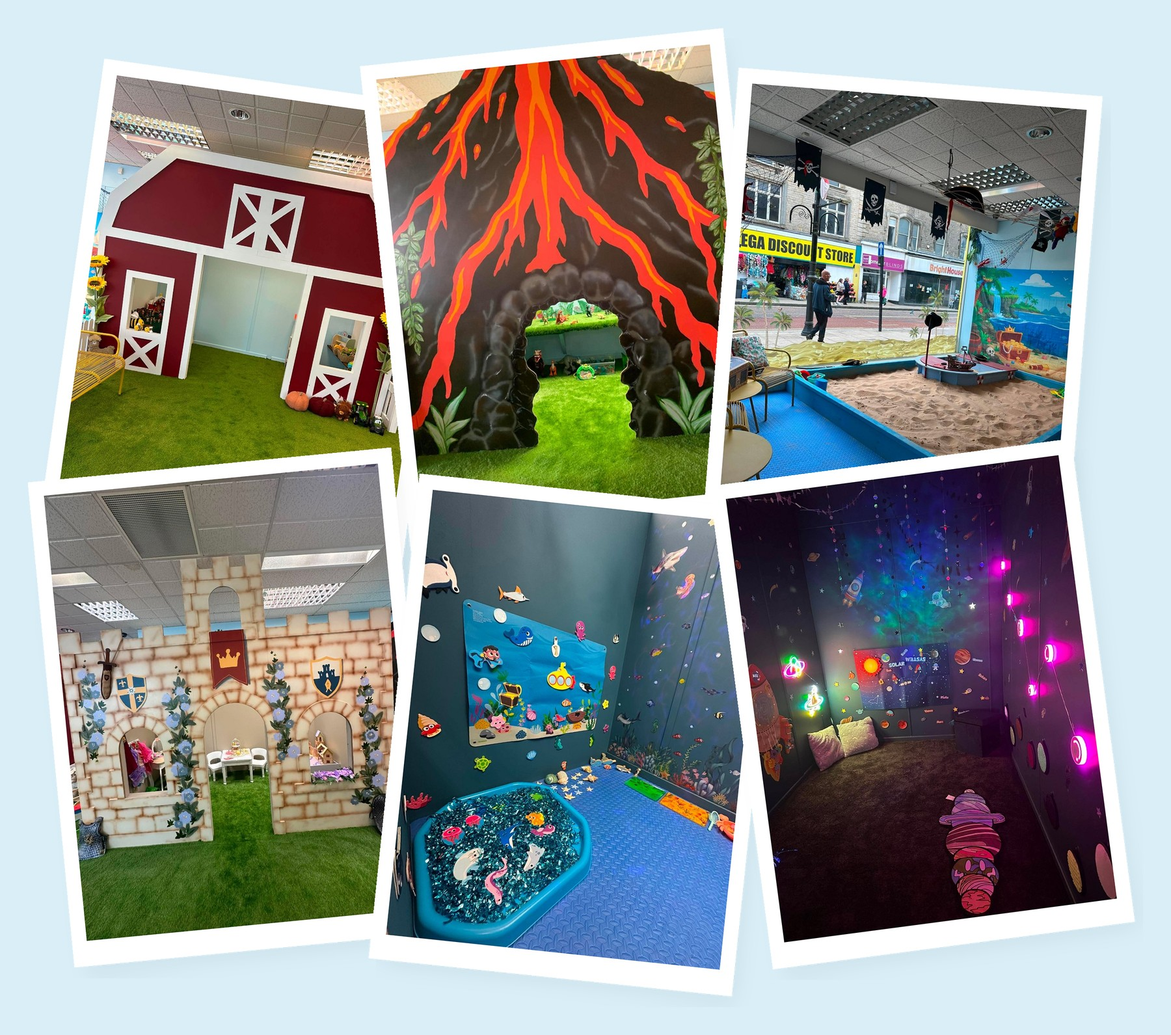
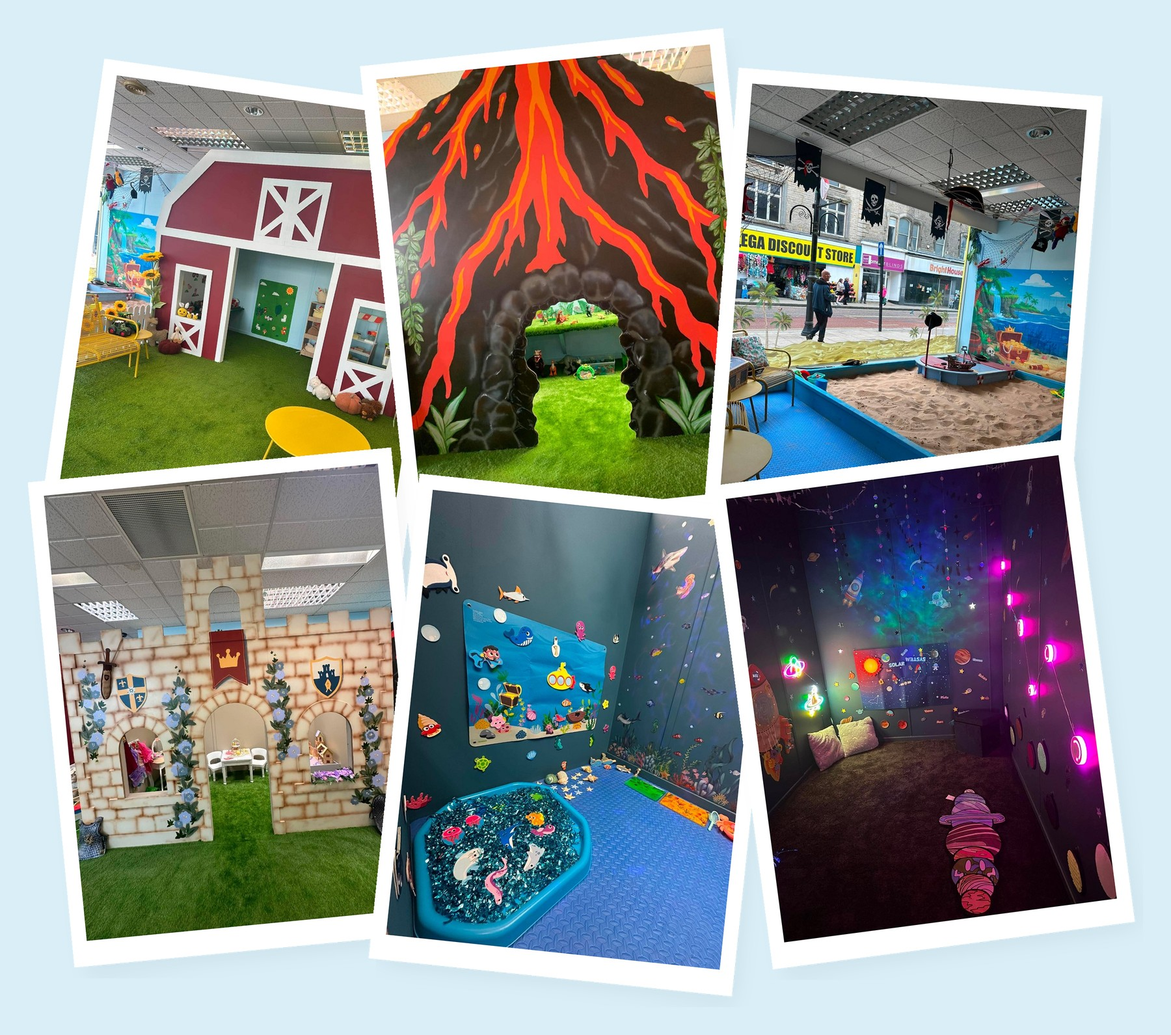
Publish weekday and weekend sitting times, plus the waiting copy and barn photo.

Changed region(s): [[0.0311, 0.0616, 0.3422, 0.462]]

diff --git a/src/config/site.ts b/src/config/site.ts
@@ -26,7 +26,9 @@ export const site = {
   name: "Little Adventure Town",
   legalName: "Little Adventure Town Ltd",
   companyNumber: "17122545",
-  tagline: "A handmade indoor adventure town for babies, toddlers and pre-schoolers, on Newgate Street.",
+  tagline: "A handmade indoor adventure town on Newgate Street, for children who love role play.",
+  audienceNote:
+    "We don't put an age limit on children, as they all develop differently. If your child still loves role play, please bring them along.",
   description:
     "Little Adventure Town is an indoor adventure play café on Newgate Street in Bishop Auckland. Handmade rooms, a café, and small booked sittings. Not your typical soft play frame.",
   url: siteUrl,
@@ -84,14 +86,21 @@ export const site = {
   hours: {
     /** Human-readable session days. Closed Monday unless this changes. */
     days: "Tuesday to Sunday",
+    weekdays: "Tuesday to Friday",
+    weekends: "Saturday and Sunday",
     closed: "Closed Monday",
     cafeHours: TO_CONFIRM,
-    note: "Play is booked, so grab a sitting before you come.",
+    note: "Booking a sitting is advisable. Walk-ins are welcome, but not guaranteed.",
     schema: [
       {
-        days: ["Tuesday", "Wednesday", "Thursday", "Friday", "Saturday", "Sunday"] as const,
-        opens: "09:30",
-        closes: "14:45",
+        days: ["Tuesday", "Wednesday", "Thursday", "Friday"] as const,
+        opens: "09:15",
+        closes: "14:30",
+      },
+      {
+        days: ["Saturday", "Sunday"] as const,
+        opens: "09:00",
+        closes: "16:30",
       },
     ],
   },
@@ -104,12 +113,19 @@ export const site = {
     durationMinutes: 90,
     durationLabel: "90 minutes",
     maxChildren: 20,
-    bookingEssential: true,
-    walkIn: false,
-    sessions: [
-      { start: "09:30", end: "11:00", label: "09:30 to 11:00" },
-      { start: "11:30", end: "13:00", label: "11:30 to 13:00" },
-      { start: "13:15", end: "14:45", label: "13:15 to 14:45" },
+    bookingEssential: false,
+    walkIn: true,
+    bookingNote: "Booking a sitting is advisable. Walk-ins are welcome, but not guaranteed.",
+    weekdaySessions: [
+      { start: "09:15", end: "10:45", label: "09:15 to 10:45" },
+      { start: "11:00", end: "12:30", label: "11:00 to 12:30" },
+      { start: "13:00", end: "14:30", label: "13:00 to 14:30" },
+    ],
+    weekendSessions: [
+      { start: "09:00", end: "10:30", label: "09:00 to 10:30" },
+      { start: "11:00", end: "12:30", label: "11:00 to 12:30" },
+      { start: "13:00", end: "14:30", label: "13:00 to 14:30" },
+      { start: "15:00", end: "16:30", label: "15:00 to 16:30" },
     ],
     adultsFree: "Adults go free",
     adultsPerChild: TO_CONFIRM,
@@ -144,7 +160,7 @@ export const site = {
     childrenPerAdult: TO_CONFIRM,
     sicknessWindowHours: "48",
     ownFood:
-      "Please don't bring food in where you can help it, as the café helps keep the doors open. Food for an allergy, medical need, specific diet or disability is absolutely fine. Baby food, bottles and milk are always welcome.",
+      "Only food and drink bought in the café can be eaten on site, except where it's needed for an allergy or a medical need.",
     allergen: "Tell us when you book, and have a word with the team when you arrive.",
     buggies: "Yes. Bring the pushchair in and park it up while you're with us.",
   },
@@ -173,8 +189,8 @@ export const site = {
         "Songs, movement and sensory play for toddlers. The same handmade rooms, at a pace that isn’t a free-for-all.",
     },
     {
-      id: "send-evenings",
-      name: "Ages 5+ evening SEND sessions",
+      id: "sen-evenings",
+      name: "Ages 5+ evening SEN sessions",
       cadence: "Weekly",
       ages: "Ages 5+",
       price: TO_CONFIRM,
@@ -218,7 +234,6 @@ export const site = {
       "Mickey and Minnie",
     ],
     sandwichBox: "Ham, cheese or tuna, crisps, yogurt, a fruit pot, chocolate and a drink.",
-    hotMeal: "Chicken nuggets, sausages or fish fingers, fries, beans or peas, and a drink.",
     extrasNote:
       "A bouncy castle, Miss Rachel or princess performers, and mascots can be arranged. We’ll price those with you.",
     otherThemesNote: "Fancy something else? We’ll talk it through and cost it properly.",
@@ -432,7 +447,7 @@ export const zones: Zone[] = [
     summary: "A red barn with white trim. The kind of farm a three-year-old would draw, then walk into.",
     detail:
       "A red barn with white trim, built out by hand. Role play, animals, and the everyday work of a very small farm shop.",
-    alt: "The red barn with white trim, sunflowers, a picket fence and toy tractors on the grass.",
+    alt: "The red barn with white trim, sunflowers, a yellow table and toy animals on the grass.",
     image: "/images/zones/the-farm.jpg",
     gallery: [
       {
@@ -508,7 +523,7 @@ export const faqGroups = [
       {
         id: "do-i-have-to-book",
         question: "Do I have to book, or can I just turn up?",
-        answer: `You'll need to book, sorry. We only take ${site.play.maxChildren} children per session so that it stays calm and everyone gets a proper go at everything, which does mean we can't take anyone on the door. The upside is you'll never turn up to find it heaving.`,
+        answer: `Booking a sitting is advisable. Walk-ins are welcome, but not guaranteed. We only take ${site.play.maxChildren} children per session so it stays calm. If that sitting is full we won't be able to squeeze you in.`,
       },
       {
         id: "more-than-one-child",
@@ -559,19 +574,18 @@ export const faqGroups = [
       {
         id: "when-open",
         question: "When are you open?",
-        answer: `${site.hours.days}, with three sessions a day. They run ${site.play.sessions.map((s) => s.label).join(", ").replace(/, ([^,]*)$/, ", and $1")}. ${site.hours.closed}.`,
+        answer: `${site.hours.days}. ${site.hours.closed}. Weekdays (${site.hours.weekdays}): ${site.play.weekdaySessions.map((s) => s.label).join(", ").replace(/, ([^,]*)$/, ", and $1")}. Weekends: ${site.play.weekendSessions.map((s) => s.label).join(", ").replace(/, ([^,]*)$/, ", and $1")}.`,
       },
       {
         id: "what-ages",
         question: "What ages is it for?",
-        answer:
-          "It's built for babies, toddlers and little ones who aren't at school yet, so roughly nought to five. Older brothers and sisters are welcome to come along too, but it's the little ones we've designed it all around.",
+        answer: site.audienceNote,
       },
       {
         id: "what-to-bring",
         question: "What should we bring?",
         answer:
-          "Socks for everyone, grown ups included, and that's honestly about it. There's a café on site so you don't need to pack drinks and snacks unless it's something specific for your child.",
+          "Socks for everyone, grown ups included, and that's honestly about it. There's a café on site, so drinks and snacks are bought here, unless your child needs their own for an allergy or a medical need.",
       },
       {
         id: "do-we-need-socks",
@@ -607,7 +621,7 @@ export const faqGroups = [
   {
     id: "food-and-drink",
     title: "Food and drink",
-    blurb: "What's on in the café, packed lunches, and allergies.",
+    blurb: "What's on in the café, and what you can bring in.",
     accent: "gold",
     items: [
       {
@@ -619,8 +633,7 @@ export const faqGroups = [
       {
         id: "own-food",
         question: "Can we bring our own food?",
-        answer:
-          "We'd ask you not to bring food in with you where you can help it, as the café is a big part of how we keep the doors open. That said, we completely understand that some children need their own food, whether that's an allergy, a medical need, a specific dietary requirement or a disability, and that's absolutely fine with us. Baby food, bottles and milk are always welcome, no need to ask.",
+        answer: site.policies.ownFood,
       },
       {
         id: "allergies",
@@ -632,12 +645,12 @@ export const faqGroups = [
   {
     id: "accessibility",
     title: "Accessibility and additional needs",
-    blurb: "SEND, quieter visits, and getting around the building.",
+    blurb: "SEN, quieter visits, and getting around the building.",
     accent: "teal",
     items: [
       {
-        id: "send-friendly",
-        question: "Are you SEND friendly?",
+        id: "sen-friendly",
+        question: "Are you SEN friendly?",
         answer:
           "Very much so, and it's something we care an awful lot about. We keep numbers low so it never gets overwhelming, and we've built a calm Sensory Space for when anyone needs a quieter moment. Dedicated evening sessions for children aged five and over are on the way. Keep an eye on Facebook and we'll shout as soon as dates are sorted.",
       },
@@ -651,7 +664,7 @@ export const faqGroups = [
         id: "building-accessible",
         question: "Is the building accessible?",
         answer:
-          "It is. We're all on the ground floor with no stairs to worry about, so there's nothing to lug a pushchair up or down.",
+          "It is. We're all on the ground floor with no stairs to worry about, so there's nothing to lug a pushchair up or down. We don't have a disabled toilet here. The closest one is at the bus station, about a three minute walk away.",
       },
       {
         id: "baby-changing",
@@ -682,7 +695,7 @@ export const faqGroups = [
         id: "what-classes",
         question: "What classes do you run?",
         answer:
-          "Classes are on the way. We're planning baby sensory, music and movement, toddler sensory sessions and evening SEND sessions for children aged five and over. Keep your eyes peeled on Facebook and we'll shout as soon as dates are sorted.",
+          "Classes are on the way. We're planning baby sensory, music and movement, toddler sensory sessions and evening SEN sessions for children aged five and over. Keep your eyes peeled on Facebook and we'll shout as soon as dates are sorted.",
       },
     ],
   },
@@ -730,7 +743,9 @@ export function formatAddress(separator = ", "): string {
 }
 
 export function sessionTimesLine(): string {
-  return site.play.sessions.map((s) => s.label).join(", ");
+  const weekdays = site.play.weekdaySessions.map((s) => s.label).join(" · ");
+  const weekends = site.play.weekendSessions.map((s) => s.label).join(" · ");
+  return `Weekdays (${site.hours.weekdays}): ${weekdays}. Weekends: ${weekends}.`;
 }
 
 export function childPriceLine(): string {
@@ -748,7 +763,7 @@ export const pages = {
     path: "/book",
     title: "Book a play session | Little Adventure Town, Bishop Auckland",
     description:
-      "Book a 90-minute play session at Little Adventure Town in Bishop Auckland. Tuesday to Sunday, three sessions a day. September deal: £5.95 a child. Adults go free. Booking essential, no walk-ins.",
+      "Book a 90-minute play session at Little Adventure Town in Bishop Auckland. Tuesday to Sunday. Three sittings on weekdays, four at the weekend. September deal: £5.95 a child. Adults go free. Booking a sitting is advisable. Walk-ins are welcome, but not guaranteed.",
   },
   whatsInside: {
     path: "/whats-inside",
@@ -772,7 +787,7 @@ export const pages = {
     path: "/faq",
     title: "FAQs | Little Adventure Town, Bishop Auckland",
     description:
-      "Booking, socks, the café, SEND, parties and how to find us. Straight answers for Little Adventure Town in Bishop Auckland.",
+      "Booking, socks, the café, SEN, parties and how to find us. Straight answers for Little Adventure Town in Bishop Auckland.",
   },
   contact: {
     path: "/contact",

diff --git a/src/styles/global.css b/src/styles/global.css
@@ -145,7 +145,7 @@
   }
 }
 
-.why-card-send .why-link {
+.why-card-sen .why-link {
   margin-top: 0;
   padding-top: 0.35rem;
 }
@@ -743,6 +743,10 @@ body.has-sticky-book {
     linear-gradient(180deg, color-mix(in srgb, var(--color-mint) 45%, white), var(--color-mint));
 }
 
+.session-tray + .session-tray {
+  margin-top: 1rem;
+}
+
 .session-tray-label {
   margin: 0 0 0.75rem;
   text-align: center;
@@ -762,8 +766,18 @@ body.has-sticky-book {
 }
 
 @media (min-width: 640px) {
-  .session-sittings {
+  .session-sittings.is-three {
     grid-template-columns: repeat(3, minmax(0, 1fr));
+  }
+
+  .session-sittings.is-four {
+    grid-template-columns: repeat(2, minmax(0, 1fr));
+  }
+}
+
+@media (min-width: 900px) {
+  .session-sittings.is-four {
+    grid-template-columns: repeat(4, minmax(0, 1fr));
   }
 }
 
@@ -813,6 +827,10 @@ body.has-sticky-book {
 
 .session-sittings li:nth-child(3) .session-num {
   background: var(--color-teal);
+}
+
+.session-sittings li:nth-child(4) .session-num {
+  background: var(--color-gold);
 }
 
 .session-time {
@@ -1133,6 +1151,22 @@ body.has-sticky-book {
   margin: 0.55rem 0 0;
 }
 
+.book-sittings p.book-sittings-kicker {
+  display: block;
+  margin: 0.65rem 0 0.2rem;
+  font-family: var(--font-body);
+  font-size: 0.72rem;
+  font-weight: 800;
+  letter-spacing: 0.08em;
+  text-transform: uppercase;
+  color: var(--color-navy-muted);
+  white-space: normal;
+}
+
+.book-sittings p.book-sittings-kicker:first-child {
+  margin-top: 0;
+}
+
 .book-sittings p {
   display: flex;
   align-items: baseline;
@@ -1426,12 +1460,6 @@ body.has-sticky-book {
   display: grid;
   gap: 0.85rem;
   margin-top: 1rem;
-}
-
-@media (min-width: 640px) {
-  .party-food {
-    grid-template-columns: 1fr 1fr;
-  }
 }
 
 .party-food-card {
